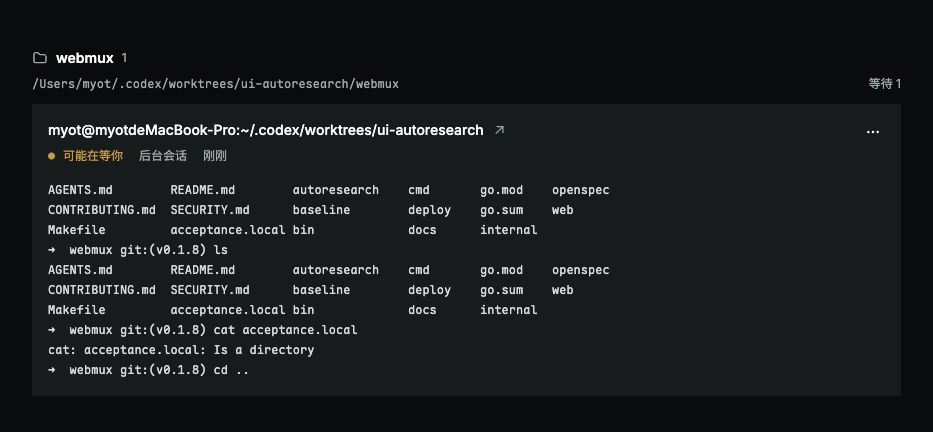
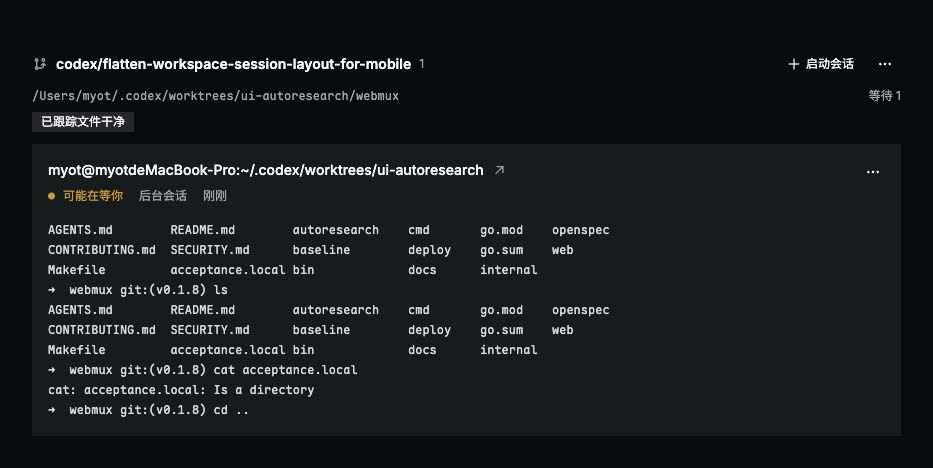
fix(web): keep mobile worktree titles above actions

diff --git a/web/test/storybook/overflow.spec.ts b/web/test/storybook/overflow.spec.ts
@@ -4,6 +4,52 @@ import { assertRequiredButtons } from "./controls";
 
 import { stories } from "./cases";
 
+test("worktree heading keeps its width above mobile actions", async ({
+  page,
+}, testInfo) => {
+  const { theme, textScale } = testInfo.project.metadata;
+  await page.goto(
+    `/iframe.html?id=workspace-flat-layout--worktree-actions&viewMode=story&globals=theme:${theme}`,
+  );
+  const heading = page.getByRole("heading", {
+    name: "codex/flatten-workspace-session-layout-for-mobile",
+  });
+  const start = page.getByRole("button", { name: "启动会话", exact: true });
+  const menu = page.getByRole("button", { name: /^工作树菜单 / });
+  await expect(heading).toBeVisible();
+  await expect(start).toBeVisible();
+  await expect(menu).toBeVisible();
+  await page.evaluate(async (scale) => {
+    document.documentElement.style.fontSize = `${Number(scale) * 100}%`;
+    await document.fonts.ready;
+  }, textScale);
+
+  const layout = await heading.evaluate((element) => {
+    const title = element.parentElement!.getBoundingClientRect();
+    const group = element.closest("section")!.getBoundingClientRect();
+    const actions =
+      element.parentElement!.nextElementSibling!.getBoundingClientRect();
+    return {
+      title: { width: title.width, top: title.top, bottom: title.bottom },
+      groupWidth: group.width,
+      actions: { top: actions.top, bottom: actions.bottom },
+      mobile: !matchMedia("(min-width: 40rem)").matches,
+    };
+  });
+  if (layout.mobile) {
+    expect(layout.title.width).toBeCloseTo(layout.groupWidth, 0);
+    expect(layout.actions.top).toBeGreaterThanOrEqual(layout.title.bottom);
+  } else {
+    expect(layout.actions.top).toBeLessThan(layout.title.bottom);
+    expect(layout.actions.bottom).toBeGreaterThan(layout.title.top);
+  }
+  await expect.poll(() => overflowViolations(page)).toEqual([]);
+  await menu.click();
+  await expect(
+    page.getByRole("menuitem", { name: "从主页移除" }),
+  ).toBeVisible();
+});
+
 for (const story of stories) {
   test(`${story} fits and keeps its controls reachable`, async ({
     page,

diff --git a/web/stories/WorkspaceLayout.svelte b/web/stories/WorkspaceLayout.svelte
@@ -1,11 +1,31 @@
 <script lang="ts">
   import WorkspaceGroup from "../src/components/WorkspaceGroup.svelte";
-  import { session as fixture, now } from "./fixtures";
+  import {
+    session as fixture,
+    worktree as worktreeFixture,
+    now,
+  } from "./fixtures";
   import type { SessionInfo } from "../src/schemas";
 
-  let { multiple = false }: { multiple?: boolean } = $props();
+  let {
+    multiple = false,
+    withWorktree = false,
+  }: { multiple?: boolean; withWorktree?: boolean } = $props();
   let notice = $state("");
   const path = "/Users/myot/.codex/worktrees/ui-autoresearch/webmux";
+  const worktree = {
+    ...worktreeFixture,
+    path,
+    branch: "codex/flatten-workspace-session-layout-for-mobile",
+    available: true,
+    locked: false,
+    lockReason: "",
+    prunable: false,
+    dirty: false,
+    hasUntracked: false,
+    hasIgnored: false,
+    error: "",
+  };
   const shell: SessionInfo = {
     ...fixture,
     title: "myot@myotdeMacBook-Pro:~/.codex/worktrees/ui-autoresearch",
@@ -49,10 +69,18 @@
 
 <main class="mx-auto max-w-5xl px-4 py-8 sm:px-8 sm:py-12">
   <WorkspaceGroup
-    title="webmux"
+    title={withWorktree ? worktree.branch : "webmux"}
     {path}
+    worktree={withWorktree ? worktree : undefined}
     sessions={multiple ? [shell, agent] : [shell]}
     {now}
+    pinned={withWorktree ? true : undefined}
+    onstart={withWorktree
+      ? () => (notice = "此预览使用示例数据，未启动真实会话。")
+      : undefined}
+    ontogglepin={withWorktree
+      ? () => (notice = "此预览使用示例数据，未修改主页工作区。")
+      : undefined}
     onclose={() => (notice = "此预览使用示例数据，未关闭真实会话。")}
   />
   {#if notice}<p role="status" class="mt-4 text-sm text-muted-foreground">

diff --git a/web/src/components/WorkspaceGroup.svelte b/web/src/components/WorkspaceGroup.svelte
@@ -50,7 +50,9 @@
   aria-label={title}
 >
   <div class="flex min-w-0 flex-wrap items-center gap-x-4 gap-y-2">
-    <div class="flex min-w-0 flex-1 items-center gap-2">
+    <div
+      class="flex w-full min-w-0 flex-none items-center gap-2 sm:w-auto sm:flex-1"
+    >
       {#if worktree}
         <IconGitBranch
           class="size-4 shrink-0 text-muted-foreground"

diff --git a/web/stories/WorkspaceLayout.stories.ts b/web/stories/WorkspaceLayout.stories.ts
@@ -11,3 +11,4 @@ type Story = StoryObj<typeof meta>;
 
 export const SingleSession: Story = { args: { multiple: false } };
 export const MultipleSessions: Story = { args: { multiple: true } };
+export const WorktreeActions: Story = { args: { withWorktree: true } };
